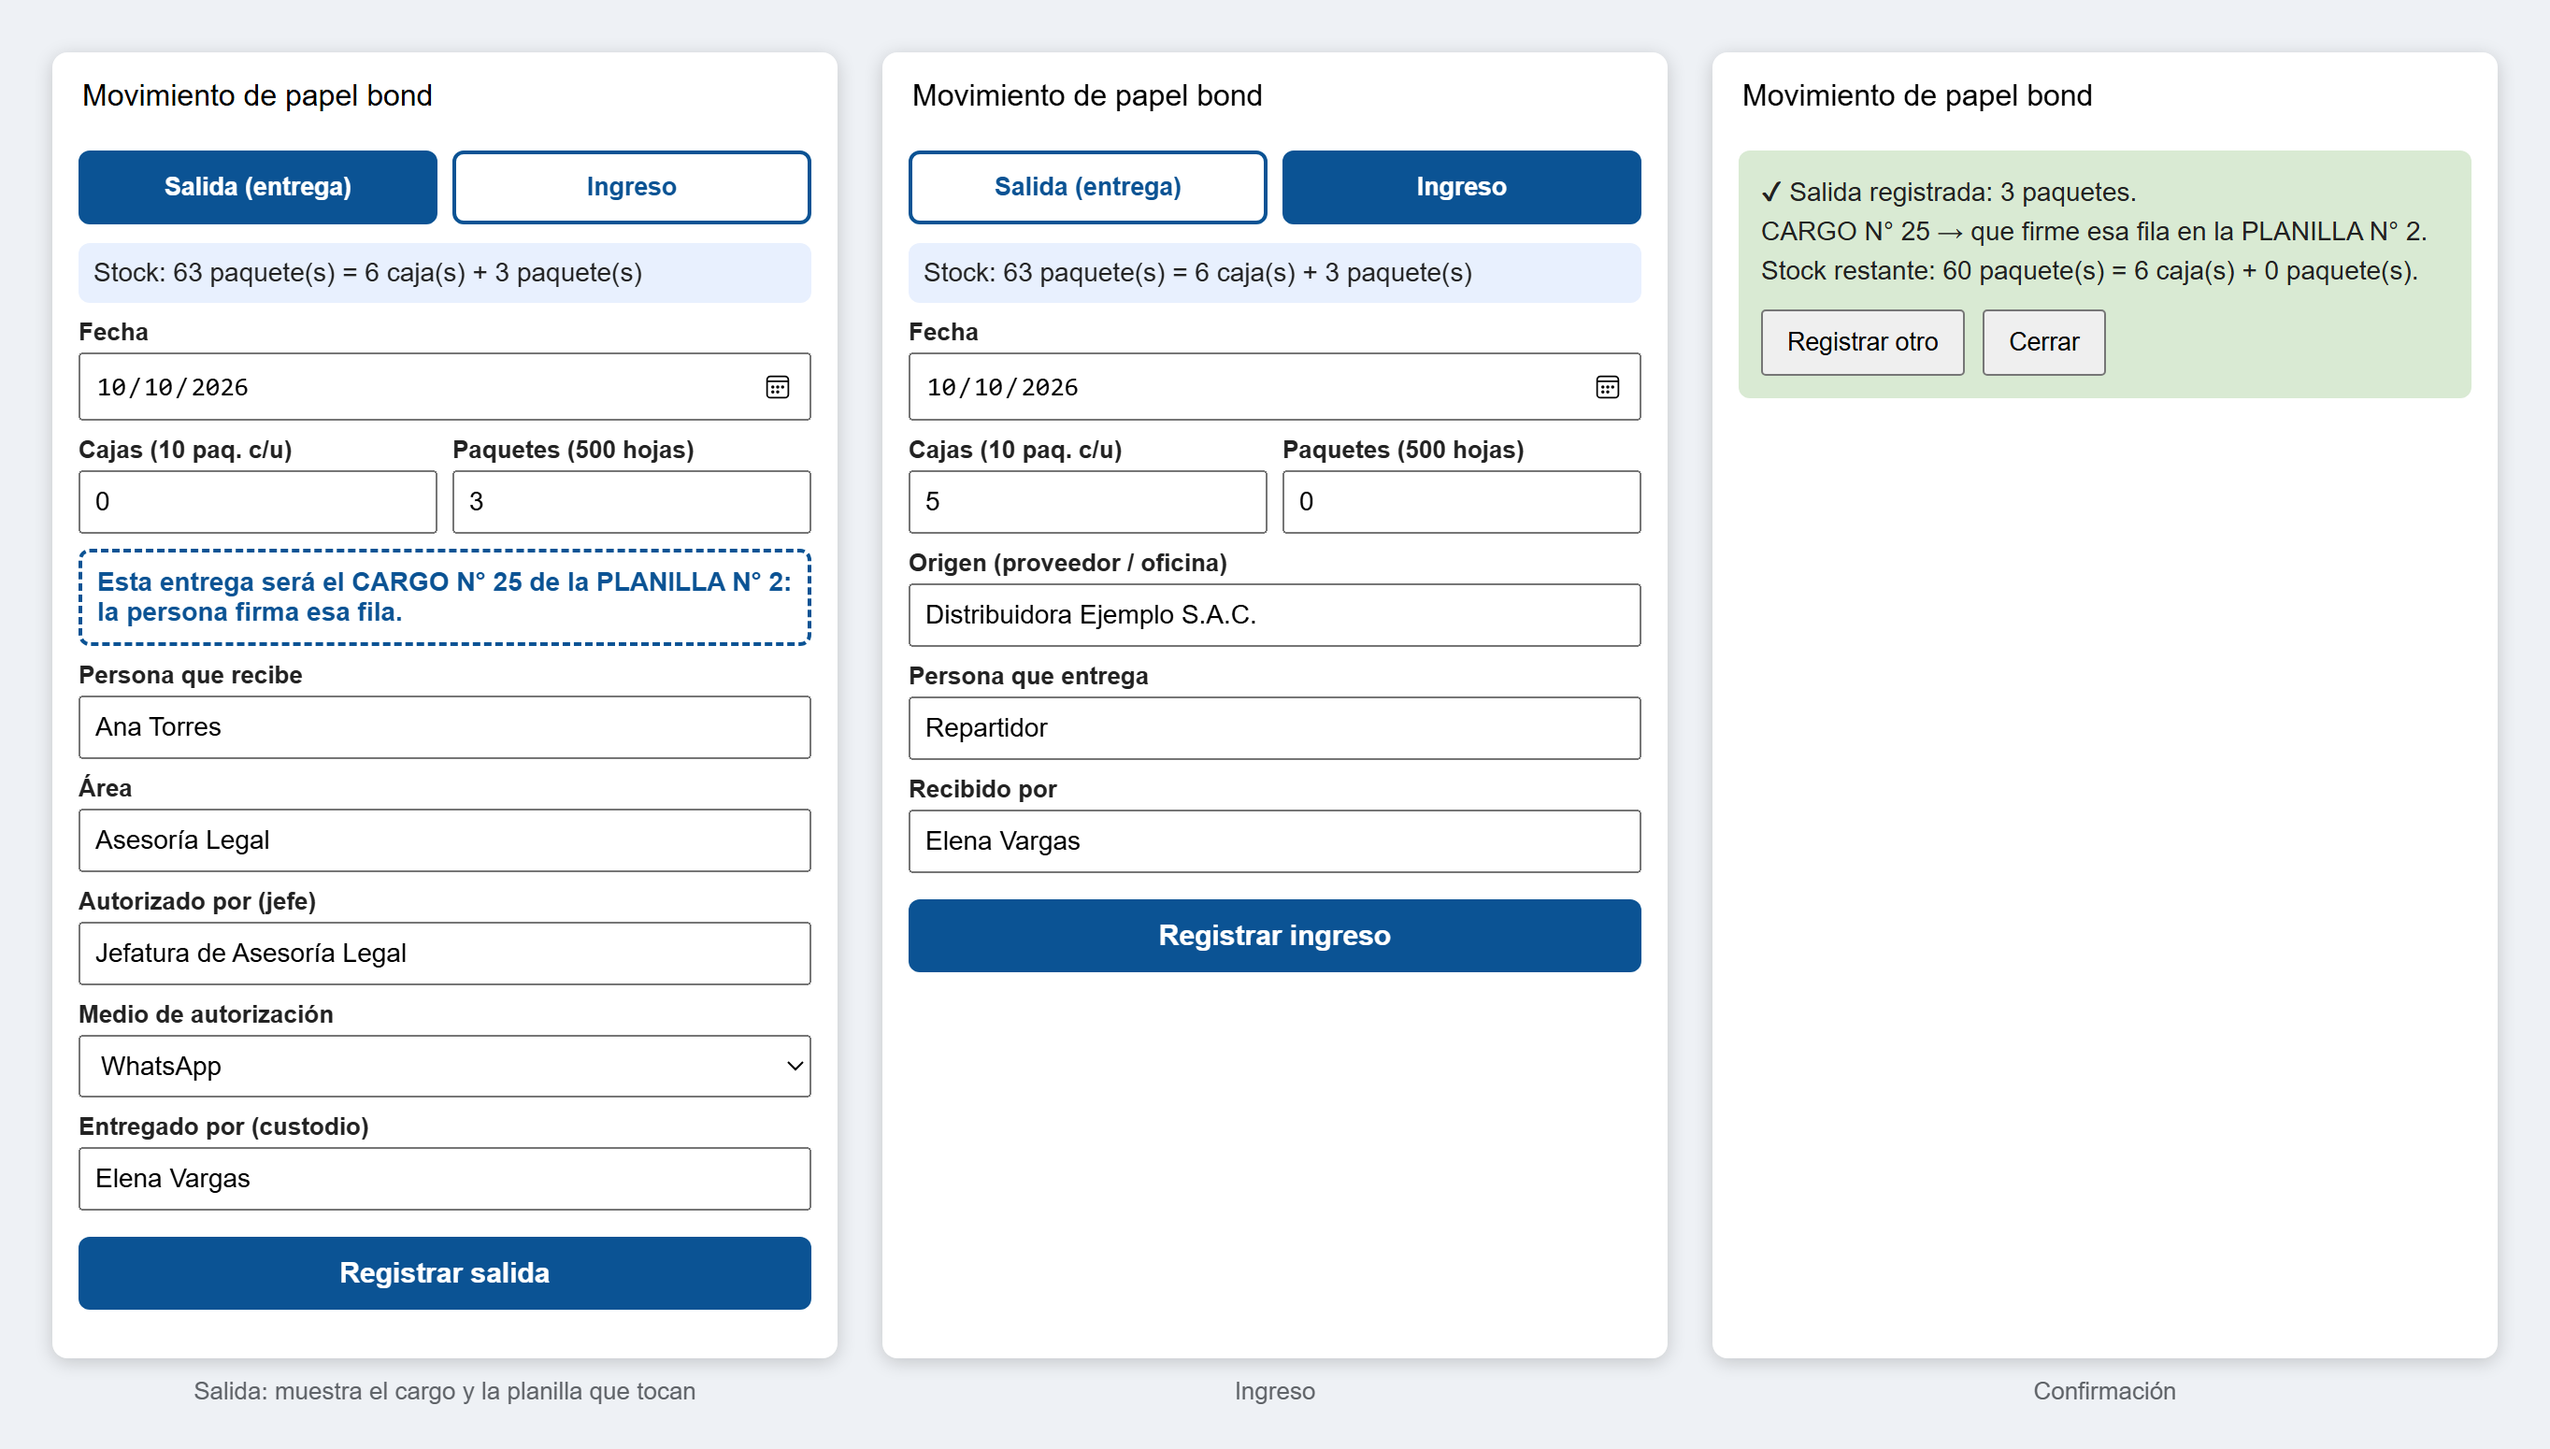
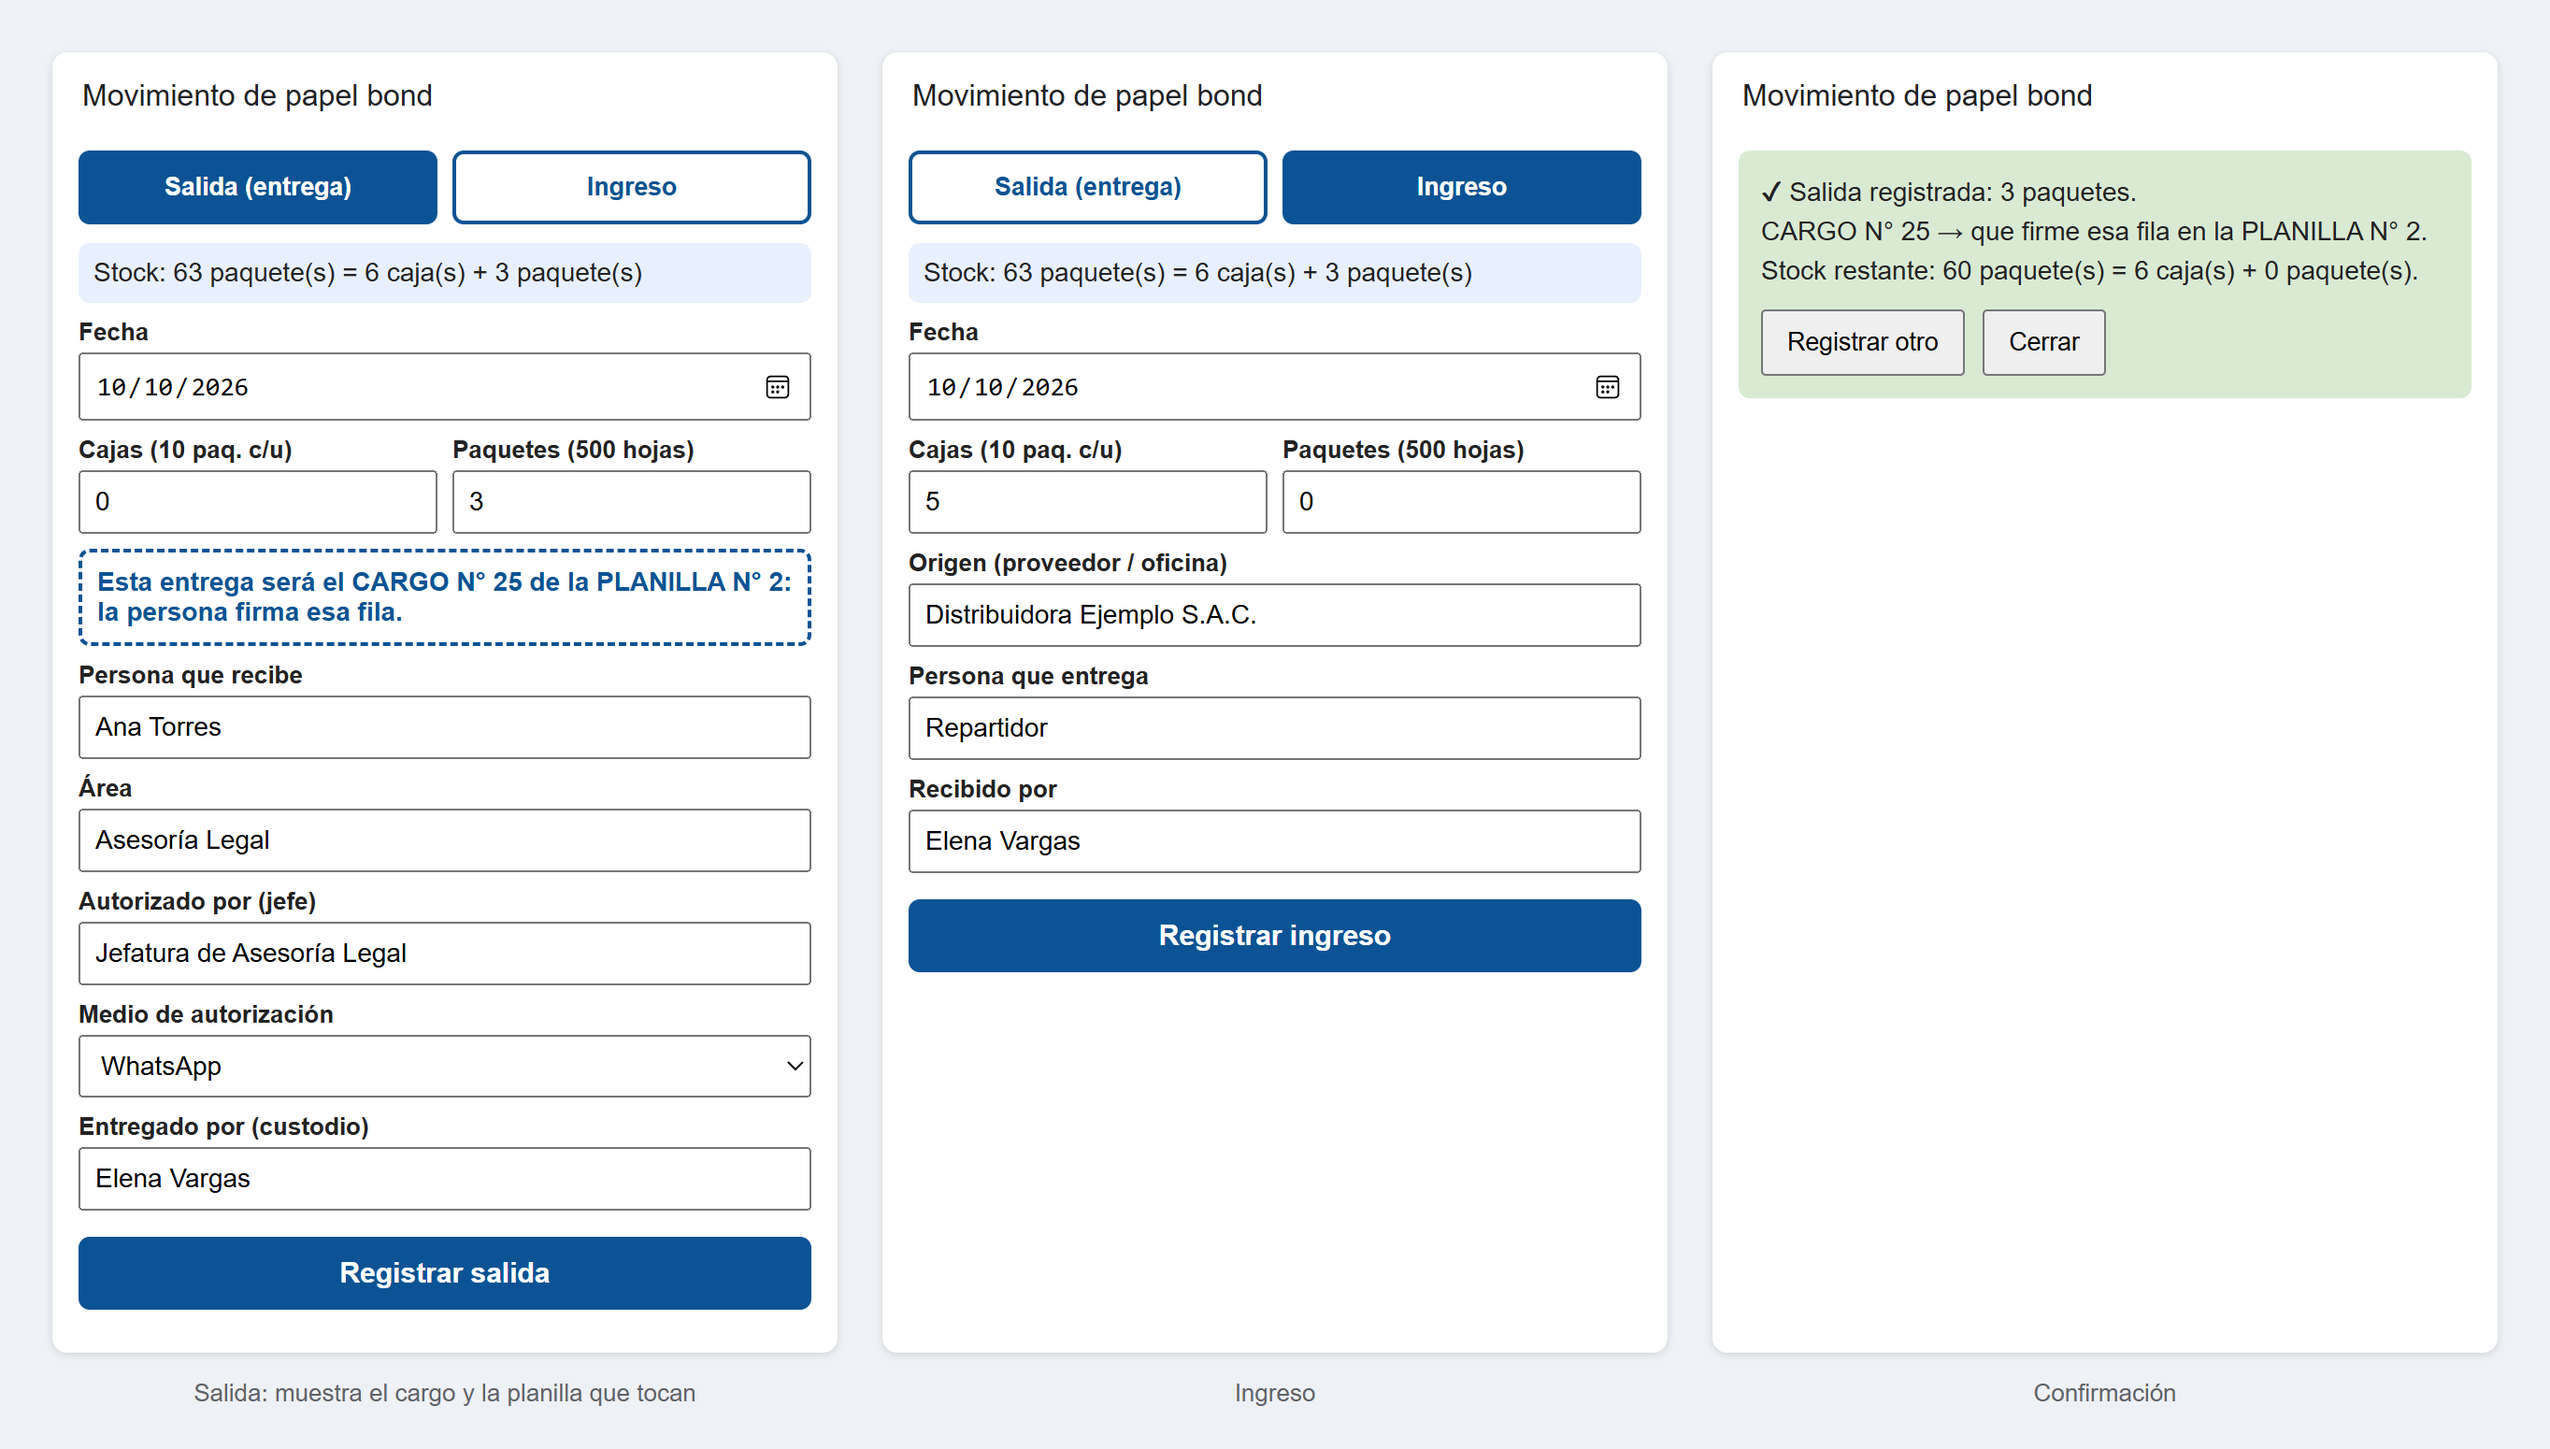
Generar la captura del formulario desde el formulario real y guardar su HTML

diff --git a/docs/capturas/formulario.html b/docs/capturas/formulario.html
@@ -1,0 +1,69 @@
+<!DOCTYPE html>
+<!--
+  Captura del formulario para el README (docs/formulario.png), con datos ficticios.
+  Carga el src/Formulario.html real y le simula google.script.run, así refleja cualquier cambio del formulario.
+  Para regenerarla (desde la raíz del repositorio, con Microsoft Edge o Chrome; el flag permite leer src/ desde file://):
+    msedge --headless=new --hide-scrollbars --allow-file-access-from-files --virtual-time-budget=3000 --force-device-scale-factor=2 --window-size=1364,775 --screenshot=docs/formulario.png docs/capturas/formulario.html
+-->
+<html lang="es">
+<head>
+<meta charset="utf-8">
+<title>Formulario</title>
+<style>
+  html, body { margin: 0; background: #eef1f5; font-family: Arial, Helvetica, sans-serif; }
+  .fila { display: flex; gap: 24px; padding: 28px 28px 0; }
+  .panel { width: 420px; }
+  .dialogo { background: #fff; border-radius: 8px; box-shadow: 0 1px 4px rgba(0,0,0,.12); overflow: hidden; }
+  .titulo { font-size: 16px; color: #202124; padding: 14px 16px 6px; }
+  iframe { display: block; width: 420px; height: 657px; border: 0; }
+  .pie { text-align: center; font-size: 13px; color: #5f6368; margin-top: 14px; }
+</style>
+</head>
+<body>
+<div class="fila" id="fila"></div>
+<script>
+  // Datos ficticios que devolvería el servidor (datosFormulario y registrar en Codigo.gs)
+  const STUB = `<script>
+    const DATOS = { paqCaja: 10, stock: 63, minimo: 30, custodio: 'Elena Vargas', proximoCargo: 25, filasPlanilla: 15,
+      lugares: [], personas: [], autorizadores: [] };
+    window.google = { script: { host: { close() {} }, get run() {
+      let ok = () => {};
+      const r = {
+        withSuccessHandler(f) { ok = f; return r; }, withFailureHandler() { return r; },
+        datosFormulario() { ok(DATOS); },
+        registrar(f) { ok({ tipo: f.tipo, cargo: 25, planilla: 2, cantidad: '3 paquetes', stock: 60 }); },
+      };
+      return r;
+    } } };
+  <\/script>`;
+
+  // Lo que se escribe en cada ventana después de cargar el formulario
+  const PASOS = {
+    salida: `$('fecha').value = '2026-10-10'; $('paquetes').value = 3; $('s_recibe').value = 'Ana Torres';
+      $('s_lugar').value = 'Asesoría Legal'; $('s_autoriza').value = 'Jefatura de Asesoría Legal';`,
+    ingreso: `modo('INGRESO'); $('fecha').value = '2026-10-10'; $('cajas').value = 5;
+      $('i_lugar').value = 'Distribuidora Ejemplo S.A.C.'; $('i_entrega').value = 'Repartidor';`,
+    confirmacion: `$('paquetes').value = 3; $('s_recibe').value = 'Ana Torres'; $('s_lugar').value = 'Asesoría Legal';
+      $('s_autoriza').value = 'Jefatura de Asesoría Legal'; guardar();`,
+  };
+  const PIES = { salida: 'Salida: muestra el cargo y la planilla que tocan', ingreso: 'Ingreso', confirmacion: 'Confirmación' };
+
+  const xhr = new XMLHttpRequest();
+  xhr.open('GET', '../../src/Formulario.html', false); // síncrono: el formulario está listo antes de la captura
+  xhr.send();
+  const formulario = xhr.responseText;
+
+  for (const clave of Object.keys(PASOS)) {
+    const panel = document.createElement('div');
+    panel.className = 'panel';
+    panel.innerHTML = '<div class="dialogo"><div class="titulo">Movimiento de papel bond</div></div><div class="pie"></div>';
+    const marco = document.createElement('iframe');
+    marco.srcdoc = formulario.replace('<head>', '<head>' + STUB)
+      .replace('</body>', `<script>${PASOS[clave]}<\/script></body>`);
+    panel.querySelector('.dialogo').appendChild(marco);
+    panel.querySelector('.pie').textContent = PIES[clave];
+    document.getElementById('fila').appendChild(panel);
+  }
+</script>
+</body>
+</html>
